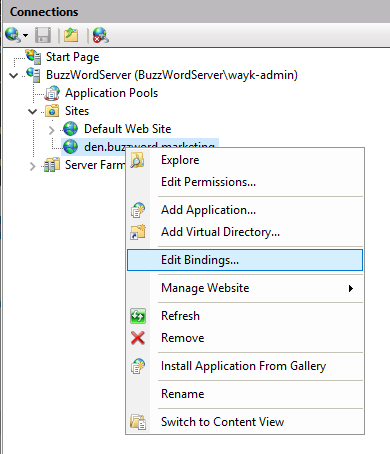
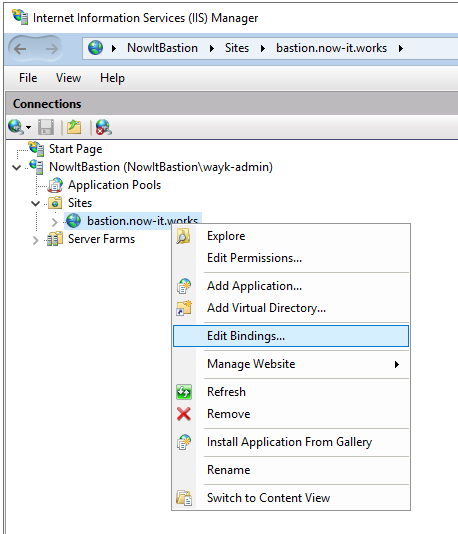
devolutions-docs: update IIS configuration guide

diff --git a/docs/wayk/bastion/iis-deployment.md b/docs/wayk/bastion/iis-deployment.md
@@ -56,6 +56,16 @@ Alternatively, the same modification can be done at the command line:
 
     %windir%\system32\inetsrv\appcmd.exe set config -section:system.webServer/proxy -preserveHostHeader:true /commit:apphost
 
+Next, set the **useOriginalURLEncoding** setting in the *system.WebServer/rewrite/globalRules* section to *false*:
+
+![IIS use original URL encoding](../../images/iis_use_original_url_encoding.png)
+
+The same modification can also be done at the command line:
+
+    %windir%\system32\inetsrv\appcmd.exe set config -section:system.WebServer/rewrite/globalRules -useOriginalURLEncoding:false /commit:apphost
+
+This change is necessary to obtain an [unmodified UNENCODED_URL variable in URL rewrite rules](https://blogs.iis.net/iisteam/url-rewrite-v2-1).
+
 ## IIS Site Configuration
 
 In IIS manager, right-click "Sites" and select "Add Website.."
@@ -64,7 +74,7 @@ In IIS manager, right-click "Sites" and select "Add Website.."
 
 In the "Add Website" dialog, enter a site name, physical path and host name. Make sure that the host name you choose is the final one you expect to use with https and matches your certificate name.
 
-As for the physical path on disk, it is not going to be used, but IIS requires you to have one. I have created "C:\\inetpub\\denroot", but you can use any path you want.
+As for the physical path on disk, it is not going to be used, but IIS requires you to have one. I have created "C:\\inetpub\\bastion", but you can use any path you want.
 
 Click OK to create the new website, then select it from the list of sites on the left.
 
@@ -82,19 +92,53 @@ While creating the new reverse proxy rule, you will likely be asked to enable pr
 
 ![IIS Enable ARR](../../images/iis_enable_arr.png)
 
+Upon creation of the first reverse proxy rule, you will also be prompted for the destination server. Just enter 'localhost' for now and click OK:
+
+![IIS Add Reverse Proxy Rules](../../images/iis_add_reverse_proxy_rules.png)
+
 You should now see a single rule called "ReverseProxyInboundRule1" in the list. Double-click on it to open the "Edit Inbound Rule" view.
 
 In the "Match URL" section, leave the "(.\*)" default pattern value. Go to the "Conditions" section and then click "Add…" to create a new condition:
 
-![IIS URL Rewrite - Cache URL Condition](../../images/iis_url_rewrite_cache_url.png)
+![IIS URL Rewrite - Unencoded URL Condition](../../images/iis_url_rewrite_unencoded_url_condition.png)
+
+In the *Action* section, select the "Rewrite" action type, and enter "http://localhost:4000/{C:1}" in the Rewrite URL field. Make sure to uncheck "Append query string" as the query string is already containing within '{C:1}' capture group (UNENCODED_URL variable).
 
 The final result should look like this:
 
 ![IIS URL Rewrite - Edit Inbound Rule](../../images/iis_url_rewrite_edit_inbound_rule.png)
 
-With this URL Rewrite inbound rule, we can now properly rewrite https:// and wss:// URLs to localhost http:// and ws:// URLs. This is important, as failing to correctly rewrite the WebSocket URLs will break WebSocket connectivity, which is required.
+This URL rewrite rule will now forward incoming traffic to http://localhost:4000 with proper handling of the URL query parameter encoding. If you host Wayk Bastion on a different host and port, simply change the destination URL.
 
-While obtaining a proper server certificate is outside of the scope of this guide, you still need to import it in IIS before configuring an HTTPS site binding for your site. Locate the "Server Certificates" feature and double-click on it to open it:
+Here is the resulting web.config file containing the URL rewrite rule for reference:
+
+```xml
+<?xml version="1.0" encoding="UTF-8"?>
+<configuration>
+    <system.webServer>
+        <rewrite>
+            <rules>
+                <clear />
+                <rule name="ReverseProxyInboundRule1" patternSyntax="ECMAScript" stopProcessing="true">
+                    <match url="(.*)" />
+                    <conditions logicalGrouping="MatchAll" trackAllCaptures="false">
+                        <add input="{UNENCODED_URL}" pattern="/(.*)" />
+                    </conditions>
+                    <action type="Rewrite" url="http://localhost:4000/{C:1}" appendQueryString="false" logRewrittenUrl="true" />
+                </rule>
+            </rules>
+        </rewrite>
+    </system.webServer>
+</configuration>
+```
+
+## IIS Certificate Configuration
+
+While obtaining a proper server certificate is outside of the scope of this guide, you still need to import it in IIS before configuring an HTTPS site binding for your site.
+
+Valid certificates from letsencrypt can be obtained using [win-acme](https://www.win-acme.com/) and following instructions from [this blog post](https://miketabor.com/how-to-install-a-lets-encrypt-ssl-cert-on-microsoft-iis/). Alternatively, we recommend giving [Posh-ACME](https://github.com/rmbolger/Posh-ACME) a try.
+
+To import your certificate, locate the "Server Certificates" feature and double-click on it to open it:
 
 ![IIS Server Certificates](../../images/iis_server_certificates.png)
 
@@ -104,7 +148,7 @@ At the top right, under "Actions", click "Import…".
 
 In the "Import Certificate" dialog, select your certificate in .pfx file, enter the password and then click OK.
 
-You can now create a new HTTPS site binding. Under "Sites", right-click your site (*den.buzzword.marketing* in this case) and then select "Edit Bindings…":
+You can now create a new HTTPS site binding. Under "Sites", right-click your site and then select "Edit Bindings…":
 
 ![IIS Site - Edit Bindings](../../images/iis_site_edit_bindings.png)
 
@@ -114,8 +158,14 @@ In the "Site Bindings" dialog, click "Add…":
 
 Select "https" as the binding type, and enter your IIS site host name. Check "Require Server Name Indication" and "Disable HTTP/2". Click "Select…", then select the server certificate that was previously imported. Click OK to create the new site binding.
 
+Last but not least, click on the "SSL Settings" feature of your site and make sure that "Require SSL" is unchecked, and that "Client certificates" is set to "Ignore":
+
+![IIS HTTPS site binding](../../images/iis_site_ssl_settings.png)
+
+Those SSL settings are sometimes confused with the HTTPS server certificate configuration. If you enable it by mistake, you may see a certificate prompt when loading the website in the browser, as it is meant to enforce client certificate authentication.
+
 That’s it! Your IIS site is now ready. Review your Wayk Bastion configuration ListenerUrl and ExternalUrl parameters to make sure they correspond to your current configuration:
 
-    Set-WaykDenConfig -ListenerUrl 'http://localhost:4000' -ExternalUrl 'https://den.buzzword.marketing'
+    Set-WaykBastionConfig -ListenerUrl 'http://localhost:4000' -ExternalUrl 'https://bastion.now-it.works'
 
 Then start Wayk Bastion, and you should now be able to access it through your IIS site. If it doesn’t work the first time, try running *iisreset* once to force the configuration changes made earlier.
